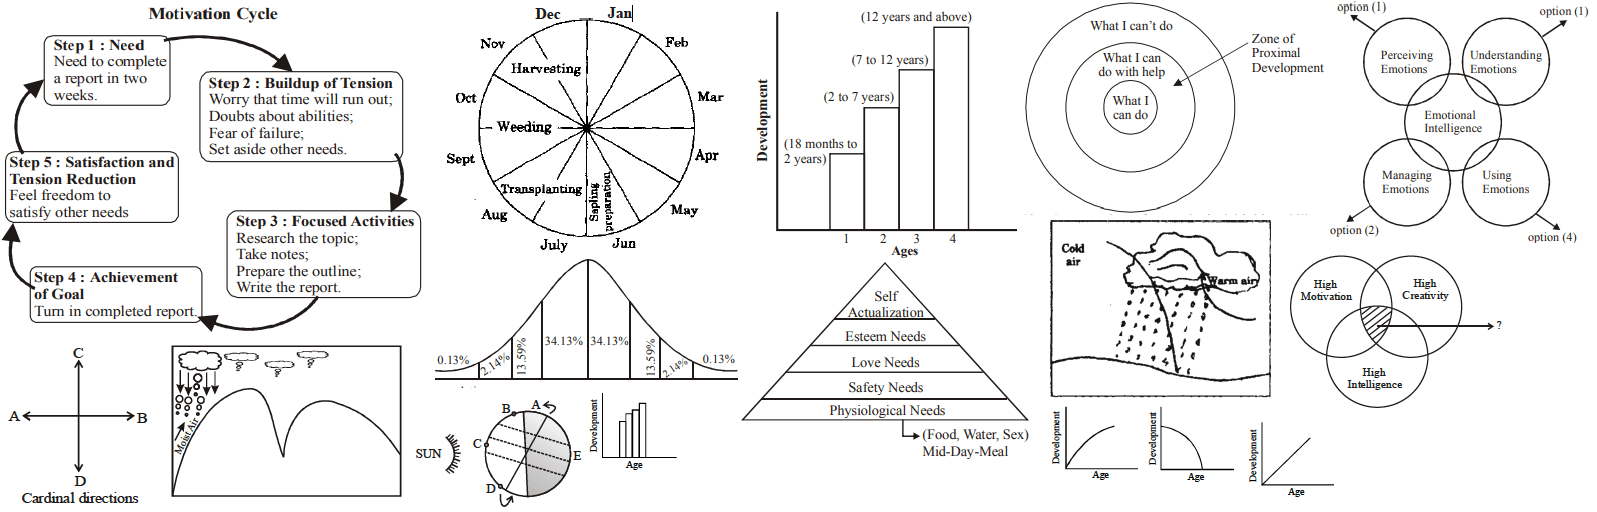
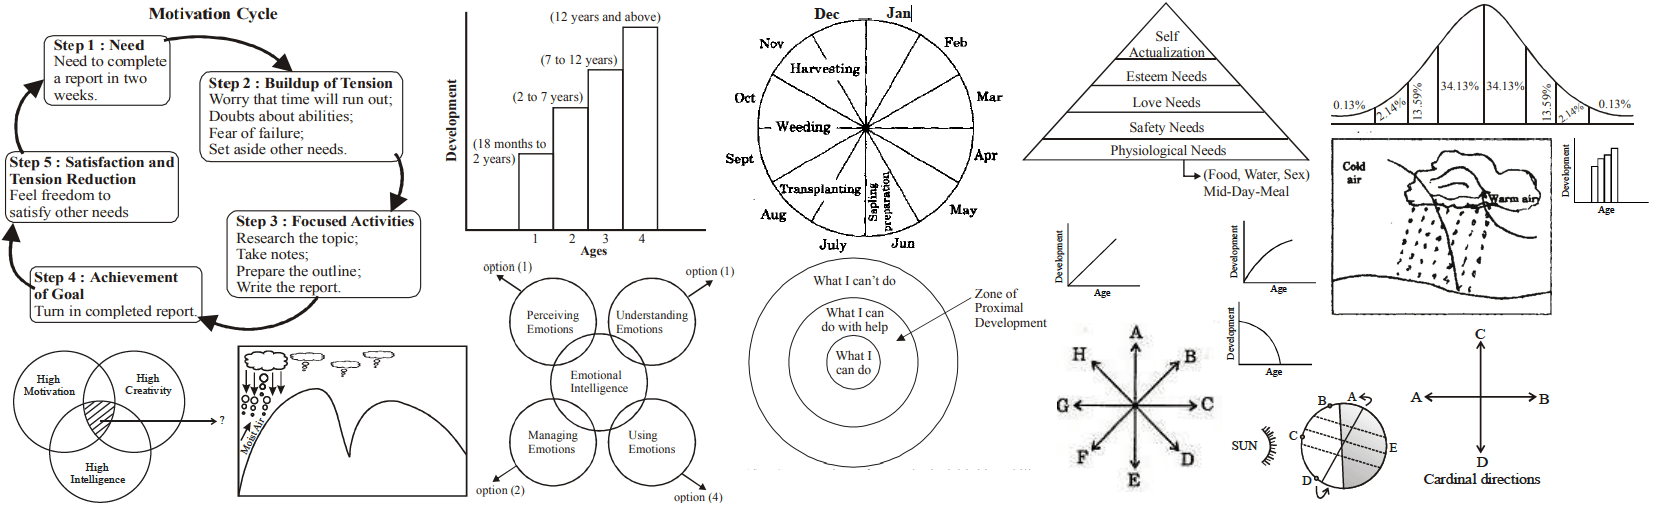
fixed images.

Changed region(s): [[0.0, 0.0, 1.0, 1.0]]

diff --git a/img/teachers/ctet2/prev/ctet2soc.css b/img/teachers/ctet2/prev/ctet2soc.css
@@ -8,52 +8,55 @@ Responsive: <div class="yourspritesname"></div>
 
 
 .CTET_2_2012_Jan_41 {max-width:179px; max-height:120px; }
-.CTET_2_2012_Jan_41::after {content: '\00a0';display: inline-block; width:179px; height:120px; background-position: 28.702397743300423% 99.23469387755102%;background-size: 892.1787709497206% 426.6666666666667%;background-image: url(ctet2soc.png);padding: 0; }
+.CTET_2_2012_Jan_41::after {content: '\00a0';display: inline-block; width:179px; height:120px; background-position: 82.85907859078591% 97.6923076923077%;background-size: 924.5810055865921% 425%;background-image: url(ctet2soc.png);padding: 0; }
 div.CTET_2_2012_Jan_41::after {max-width:179px; width:100%;height:0;padding: 0 0 67.0391061452514% 0;}
 .CTET_2_2012_Jan_46 {max-width:241px; max-height:163px; }
-.CTET_2_2012_Jan_46::after {content: '\00a0';display: inline-block; width:241px; height:163px; background-position: 12.168141592920353% 97.13467048710602%;background-size: 662.655601659751% 314.11042944785277%;background-image: url(ctet2soc.png);padding: 0; }
+.CTET_2_2012_Jan_46::after {content: '\00a0';display: inline-block; width:241px; height:163px; background-position: 16.336633663366335% 97.69452449567723%;background-size: 686.7219917012449% 312.8834355828221%;background-image: url(ctet2soc.png);padding: 0; }
 div.CTET_2_2012_Jan_46::after {max-width:241px; width:100%;height:0;padding: 0 0 67.63485477178423% 0;}
+.ctet_2_2011_38 {max-width:172px; max-height:176px; }
+.ctet_2_2011_38::after {content: '\00a0';display: inline-block; width:172px; height:176px; background-position: 70.8024275118004% 95.80838323353294%;background-size: 962.2093023255813% 289.77272727272725%;background-image: url(ctet2soc.png);padding: 0; }
+div.ctet_2_2011_38::after {max-width:172px; width:100%;height:0;padding: 0 0 102.32558139534883% 0;}
 .ctet_2_2013_jul_12 {max-width:229px; max-height:170px; }
-.ctet_2_2013_jul_12::after {content: '\00a0';display: inline-block; width:229px; height:170px; background-position: 93.42105263157895% 71.34502923976608%;background-size: 697.3799126637555% 301.1764705882353%;background-image: url(ctet2soc.png);padding: 0; }
+.ctet_2_2013_jul_12::after {content: '\00a0';display: inline-block; width:229px; height:170px; background-position: 0.07012622720897616% 99.70588235294117%;background-size: 722.707423580786% 300%;background-image: url(ctet2soc.png);padding: 0; }
 div.ctet_2_2013_jul_12::after {max-width:229px; width:100%;height:0;padding: 0 0 74.23580786026201% 0;}
 .ctet_2_2014_feb_10sol {max-width:308px; max-height:132px; }
-.ctet_2_2014_feb_10sol::after {content: '\00a0';display: inline-block; width:308px; height:132px; background-position: 33.359193173002325% 67.36842105263158%;background-size: 518.5064935064935% 387.8787878787879%;background-image: url(ctet2soc.png);padding: 0; }
+.ctet_2_2014_feb_10sol::after {content: '\00a0';display: inline-block; width:308px; height:132px; background-position: 98.44097995545657% 0.26455026455026454%;background-size: 537.3376623376623% 386.3636363636364%;background-image: url(ctet2soc.png);padding: 0; }
 div.ctet_2_2014_feb_10sol::after {max-width:308px; width:100%;height:0;padding: 0 0 42.857142857142854% 0;}
 .ctet_2_2014_feb_1_sol {max-width:278px; max-height:259px; }
-.ctet_2_2014_feb_1_sol::after {content: '\00a0';display: inline-block; width:278px; height:259px; background-position: 56.178923426838516% 0.3952569169960474%;background-size: 574.4604316546763% 197.6833976833977%;background-image: url(ctet2soc.png);padding: 0; }
+.ctet_2_2014_feb_1_sol::after {content: '\00a0';display: inline-block; width:278px; height:259px; background-position: 31.22730573710966% 0.398406374501992%;background-size: 595.3237410071943% 196.91119691119692%;background-image: url(ctet2soc.png);padding: 0; }
 div.ctet_2_2014_feb_1_sol::after {max-width:278px; width:100%;height:0;padding: 0 0 93.16546762589928% 0;}
 .ctet_2_2014_feb_1a {max-width:95px; max-height:88px; }
-.ctet_2_2014_feb_1a::after {content: '\00a0';display: inline-block; width:95px; height:88px; background-position: 39.081225033288945% 91.74528301886792%;background-size: 1681.0526315789473% 581.8181818181819%;background-image: url(ctet2soc.png);padding: 0; }
+.ctet_2_2014_feb_1a::after {content: '\00a0';display: inline-block; width:95px; height:88px; background-position: 99.93589743589743% 31.753554502369667%;background-size: 1742.1052631578948% 579.5454545454545%;background-image: url(ctet2soc.png);padding: 0; }
 div.ctet_2_2014_feb_1a::after {max-width:95px; width:100%;height:0;padding: 0 0 92.63157894736842% 0;}
 .ctet_2_2014_feb_1b {max-width:99px; max-height:80px; }
-.ctet_2_2014_feb_1b::after {content: '\00a0';display: inline-block; width:99px; height:80px; background-position: 69.75967957276369% 93.05555555555556%;background-size: 1613.1313131313132% 640%;background-image: url(ctet2soc.png);padding: 0; }
+.ctet_2_2014_feb_1b::after {content: '\00a0';display: inline-block; width:99px; height:80px; background-position: 78.59897172236504% 50.23255813953488%;background-size: 1671.7171717171718% 637.5%;background-image: url(ctet2soc.png);padding: 0; }
 div.ctet_2_2014_feb_1b::after {max-width:99px; width:100%;height:0;padding: 0 0 80.8080808080808% 0;}
 .ctet_2_2014_feb_1c {max-width:97px; max-height:86px; }
-.ctet_2_2014_feb_1c::after {content: '\00a0';display: inline-block; width:97px; height:86px; background-position: 82.93333333333334% 97.41784037558685%;background-size: 1646.3917525773195% 595.3488372093024%;background-image: url(ctet2soc.png);padding: 0; }
+.ctet_2_2014_feb_1c::after {content: '\00a0';display: inline-block; width:97px; height:86px; background-position: 67.39409499358152% 50.943396226415096%;background-size: 1706.1855670103093% 593.0232558139535%;background-image: url(ctet2soc.png);padding: 0; }
 div.ctet_2_2014_feb_1c::after {max-width:97px; width:100%;height:0;padding: 0 0 88.65979381443299% 0;}
 .ctet_2_2014_feb_1d {max-width:98px; max-height:83px; }
-.ctet_2_2014_feb_1d::after {content: '\00a0';display: inline-block; width:98px; height:83px; background-position: 76.38425617078052% 93.7062937062937%;background-size: 1629.591836734694% 616.8674698795181%;background-image: url(ctet2soc.png);padding: 0; }
+.ctet_2_2014_feb_1d::after {content: '\00a0';display: inline-block; width:98px; height:83px; background-position: 78.54849068721902% 69.55503512880563%;background-size: 1688.7755102040817% 614.4578313253012%;background-image: url(ctet2soc.png);padding: 0; }
 div.ctet_2_2014_feb_1d::after {max-width:98px; width:100%;height:0;padding: 0 0 84.6938775510204% 0;}
 .ctet_2_2014_feb_26sol {max-width:269px; max-height:242px; }
-.ctet_2_2014_feb_26sol::after {content: '\00a0';display: inline-block; width:269px; height:242px; background-position: 99.92469879518072% 0.37037037037037035%;background-size: 593.6802973977696% 211.5702479338843%;background-image: url(ctet2soc.png);padding: 0; }
+.ctet_2_2014_feb_26sol::after {content: '\00a0';display: inline-block; width:269px; height:242px; background-position: 34.12698412698413% 97.38805970149254%;background-size: 615.2416356877324% 210.74380165289256%;background-image: url(ctet2soc.png);padding: 0; }
 div.ctet_2_2014_feb_26sol::after {max-width:269px; width:100%;height:0;padding: 0 0 89.96282527881041% 0;}
 .ctet_2_2014_feb_28sol {max-width:305px; max-height:214px; }
-.ctet_2_2014_feb_28sol::after {content: '\00a0';display: inline-block; width:305px; height:214px; background-position: 57.19814241486068% 87.58389261744966%;background-size: 523.6065573770492% 239.25233644859813%;background-image: url(ctet2soc.png);padding: 0; }
+.ctet_2_2014_feb_28sol::after {content: '\00a0';display: inline-block; width:305px; height:214px; background-position: 75.55555555555556% 0.33783783783783783%;background-size: 542.6229508196722% 238.3177570093458%;background-image: url(ctet2soc.png);padding: 0; }
 div.ctet_2_2014_feb_28sol::after {max-width:305px; width:100%;height:0;padding: 0 0 70.1639344262295% 0;}
 .ctet_2_2014_sep_29sol {max-width:428px; max-height:337px; }
-.ctet_2_2014_sep_29sol::after {content: '\00a0';display: inline-block; width:428px; height:337px; background-position: 0.0855431993156544% 0.5714285714285714%;background-size: 373.13084112149534% 151.9287833827893%;background-image: url(ctet2soc.png);padding: 0; }
+.ctet_2_2014_sep_29sol::after {content: '\00a0';display: inline-block; width:428px; height:337px; background-position: 0.08149959250203749% 0.5780346820809249%;background-size: 386.68224299065423% 151.3353115727003%;background-image: url(ctet2soc.png);padding: 0; }
 div.ctet_2_2014_sep_29sol::after {max-width:428px; width:100%;height:0;padding: 0 0 78.73831775700934% 0;}
 .ctet_2_2014_sep_49 {max-width:163px; max-height:172px; }
-.ctet_2_2014_sep_49::after {content: '\00a0';display: inline-block; width:163px; height:172px; background-position: 0.0697350069735007% 99.70588235294117%;background-size: 979.7546012269938% 297.6744186046512%;background-image: url(ctet2soc.png);padding: 0; }
+.ctet_2_2014_sep_49::after {content: '\00a0';display: inline-block; width:163px; height:172px; background-position: 94.0348525469169% 94.67455621301775%;background-size: 1015.3374233128834% 296.51162790697674%;background-image: url(ctet2soc.png);padding: 0; }
 div.ctet_2_2014_sep_49::after {max-width:163px; width:100%;height:0;padding: 0 0 105.52147239263803% 0;}
 .ctet_2_2014_sep_55 {max-width:232px; max-height:185px; }
-.ctet_2_2014_sep_55::after {content: '\00a0';display: inline-block; width:232px; height:185px; background-position: 76.55677655677655% 66.05504587155963%;background-size: 688.3620689655172% 276.7567567567568%;background-image: url(ctet2soc.png);padding: 0; }
+.ctet_2_2014_sep_55::after {content: '\00a0';display: inline-block; width:232px; height:185px; background-position: 93.18341531974701% 41.23076923076923%;background-size: 713.3620689655172% 275.6756756756757%;background-image: url(ctet2soc.png);padding: 0; }
 div.ctet_2_2014_sep_55::after {max-width:232px; width:100%;height:0;padding: 0 0 79.74137931034483% 0;}
 .ctet_2_2014_sep_70 {max-width:310px; max-height:254px; }
-.ctet_2_2014_sep_70::after {content: '\00a0';display: inline-block; width:310px; height:254px; background-position: 33.41103341103341% 0.3875968992248062%;background-size: 515.1612903225806% 201.5748031496063%;background-image: url(ctet2soc.png);padding: 0; }
+.ctet_2_2014_sep_70::after {content: '\00a0';display: inline-block; width:310px; height:254px; background-position: 52.71375464684015% 0.390625%;background-size: 533.8709677419355% 200.78740157480314%;background-image: url(ctet2soc.png);padding: 0; }
 div.ctet_2_2014_sep_70::after {max-width:310px; width:100%;height:0;padding: 0 0 81.93548387096774% 0;}
 .ctet_2_2015_feb_12sol {max-width:306px; max-height:214px; }
-.ctet_2_2015_feb_12sol::after {content: '\00a0';display: inline-block; width:306px; height:214px; background-position: 79.00852052672347% 0.33557046979865773%;background-size: 521.8954248366013% 239.25233644859813%;background-image: url(ctet2soc.png);padding: 0; }
+.ctet_2_2015_feb_12sol::after {content: '\00a0';display: inline-block; width:306px; height:214px; background-position: 55.077835433654556% 86.48648648648648%;background-size: 540.8496732026143% 238.3177570093458%;background-image: url(ctet2soc.png);padding: 0; }
 div.ctet_2_2015_feb_12sol::after {max-width:306px; width:100%;height:0;padding: 0 0 69.93464052287581% 0;}
 
-/* $TexturePacker:SmartUpdate:771b57a638689ba6771c79f8c7e81ee3:335fe88c4357ee99938d811ab0b37a4f:913d05db91e9f69043cf94ed8bd770e8$ */
+/* $TexturePacker:SmartUpdate:89f801bb9a3211a86943479d79e2439c:856060a96591a5fb069e201c30cec100:913d05db91e9f69043cf94ed8bd770e8$ */
